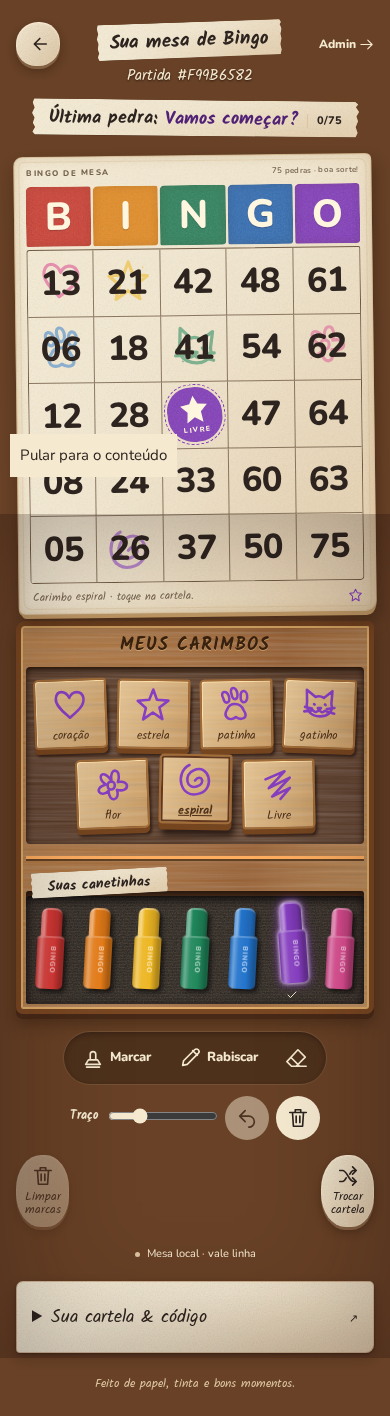
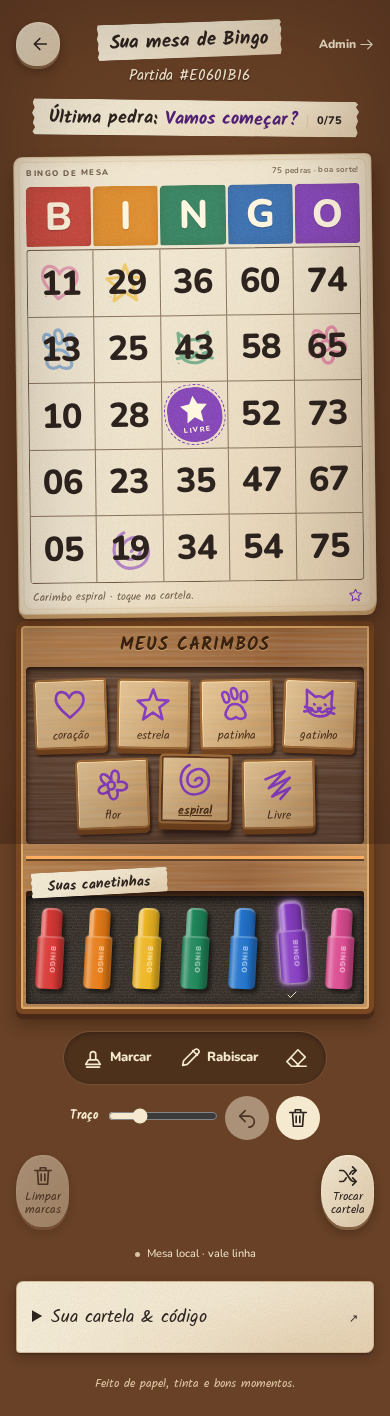
docs(qa): capture stamp case from the top of the production page

diff --git a/docs/HANDOFF.md b/docs/HANDOFF.md
@@ -147,4 +147,4 @@ Base: 09c17cd. Remote confirmado: git@github.com:gr1ksdev/Bingo.git. Branch e re
 - Pendência: QA em dispositivos físicos e WebView real. Telegram nesta etapa foi simulado na UI; criptografia/endpoints seguem cobertos pela suíte existente.
 - Observação da execução dev: o SDK oficial pode acrescentar variáveis --tg-viewport-* ao html antes da hidratação e gerar aviso de atributos divergentes. O SDK e layout não foram alterados nesta tarefa.
 - A referência fornecida pelo usuário permanece não rastreada, como estava no início.
-- Este handoff e a captura serão registrados em um commit documental posterior; consultar git log -2 para seu hash.
+- Este handoff e a captura serão registrados em um commit documental posterior; commit documental 61d741a também enviado; captura final revisada em commit posterior.
